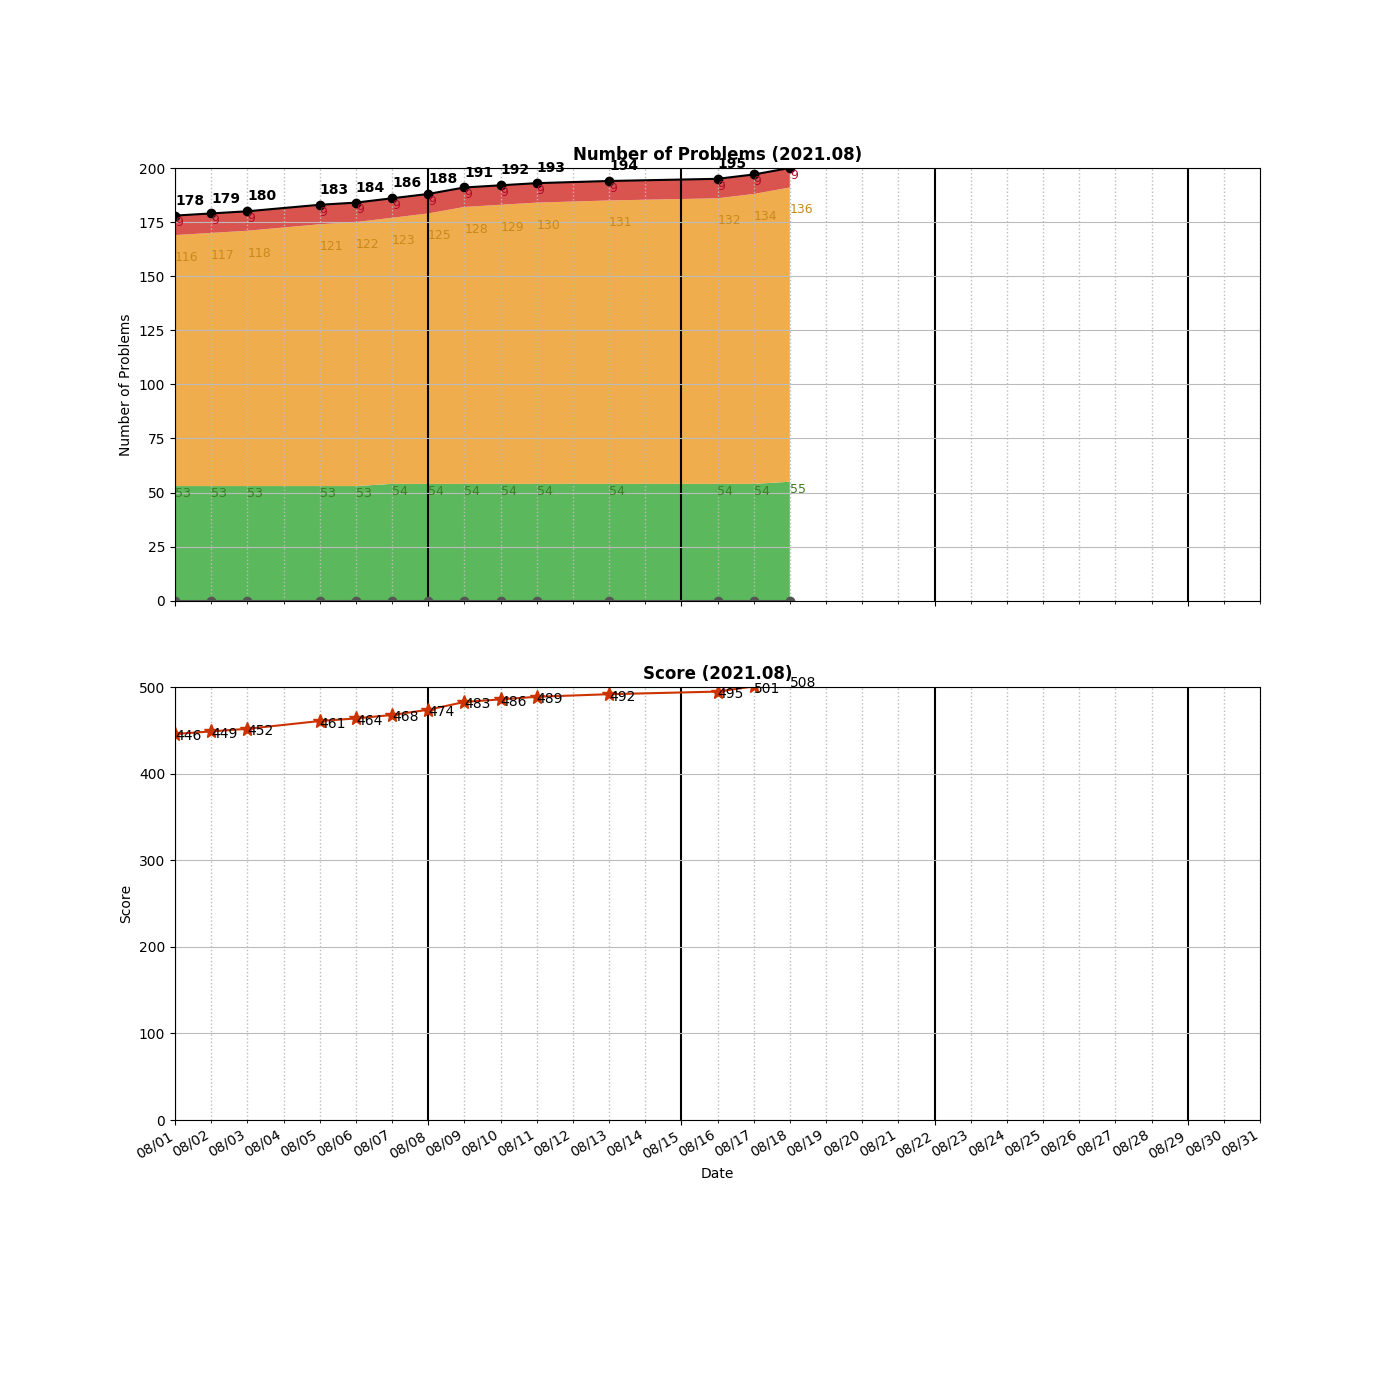
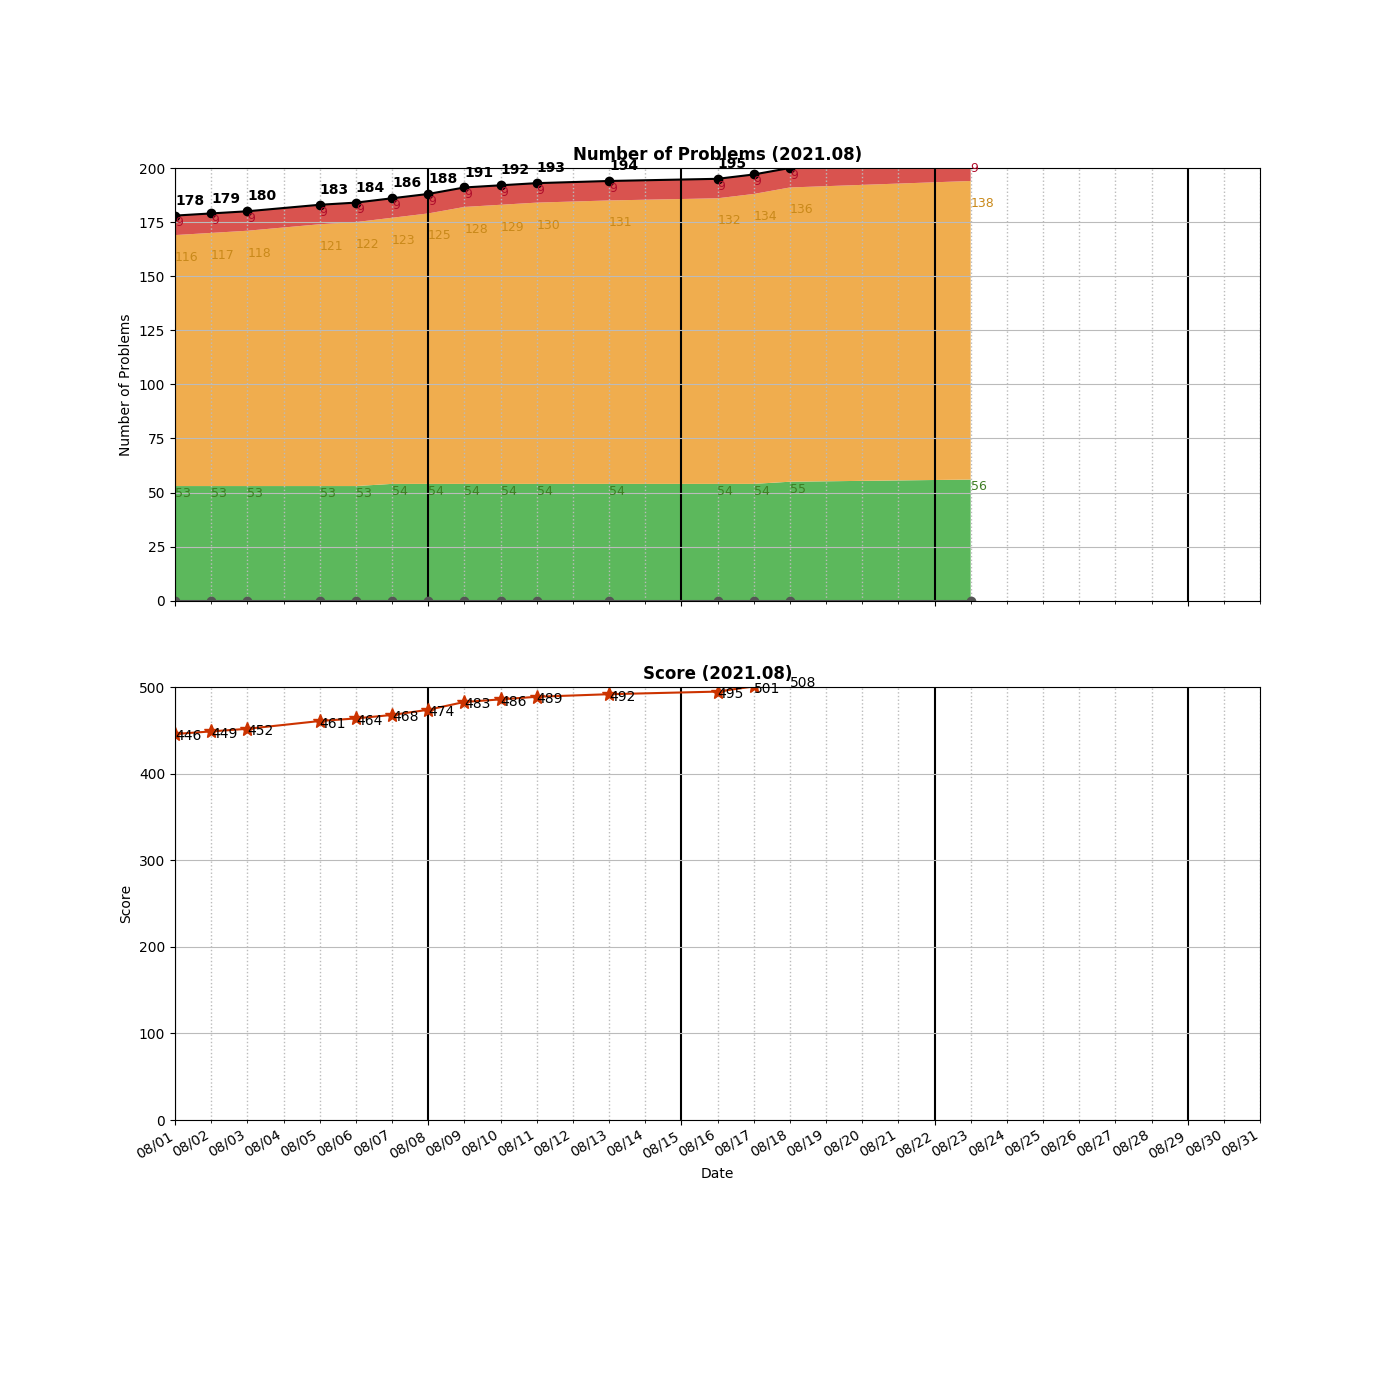
Added __1048__Longest String Chain.py

Changed region(s): [[0.5529, 0.1229, 0.7064, 0.43]]

diff --git a/algo/DP/__1048__Longest String Chain.py b/algo/DP/__1048__Longest String Chain.py
@@ -1,0 +1,32 @@
+# https://leetcode.com/problems/longest-string-chain/
+ 
+class Solution:
+    
+    # Memoization [Time = O(N*L^2) : 12% (list) -> 40% (set)]
+    def longestStrChain(self, words: List[str]) -> int:
+        if not words:
+            return 0
+        
+        self.used = {}
+        self.length = 0 
+        self.words = set(words) 
+        
+        for s in self.words:
+            if s in self.used:
+                continue
+            self.length = max(self.length, self.helper(s))
+        return self.length
+    
+    def helper(self, s):
+        if s not in self.words: #empty s included 
+            return 0
+        if s in self.used:
+            return self.used[s]
+        
+        remaining = -float('inf')
+        for i in range(len(s)):
+            left  = s[:i]    
+            right = s[i+1:] 
+            remaining = max(remaining, 1 + self.helper(left + right)) 
+        self.used[s] = remaining 
+        return self.used[s] 

diff --git a/README.md b/README.md
@@ -92,6 +92,7 @@ algo
 │   ├── __0542__01\ Matrix.py
 │   ├── __0576__Out\ of\ Boundary\ Paths.py
 │   ├── __0935__Knight\ Dialer.py
+│   ├── __1048__Longest\ String\ Chain.py
 │   ├── __1130__Minimum\ Cost\ Tree\ From\ Leaf\ Values.py
 │   ├── __1137__N-th\ Tribonacci\ Number.py
 │   ├── __1143__Longest\ Common\ Subsequence.py
@@ -227,7 +228,7 @@ algo
         ├── LinkedList.cpython-37.pyc
         └── UnrolledLinkedList.cpython-37.pyc
 
-21 directories, 205 files
+21 directories, 206 files
 
 =====================================
 ============= Local Repo ============
@@ -412,6 +413,7 @@ __0922__Sort Array By Parity II.py
 __0935__Knight Dialer.py
 __0969__Pancake Sorting.py
 __0973__K Closest Points to Origin.py
+__1048__Longest String Chain.py
 __1099__Two Sum Less Than K.py
 __1110__Delete Nodes And Return Forest.py
 __1130__Minimum Cost Tree From Leaf Values.py
@@ -429,7 +431,7 @@ __1593__Split a String Into the Max Number of Unique Substrings.py
 __1711__Count Good Meals.py
 __1905__Count Sub Islands.py
 =====================================
-Num of Python Practice:  196
+Num of Python Practice:  197
 
 
 =====================================
@@ -582,6 +584,7 @@ Num of Python Practice:  196
  0515 Find Largest Value in Each Tree Row
  0518 Coin Change 2
  0532 K-diff Pairs in an Array
+ 0535 Encode and Decode TinyURL
  0538 Convert BST to Greater Tree
  0540 Single Element in a Sorted Array
  0542 01 Matrix
@@ -619,6 +622,8 @@ Num of Python Practice:  196
  0969 Pancake Sorting
  0973 K Closest Points to Origin
  0994 Rotting Oranges
+ 1025 Divisor Game
+ 1048 Longest String Chain
  1099 Two Sum Less Than K
  1110 Delete Nodes And Return Forest
  1130 Minimum Cost Tree From Leaf Values
@@ -636,11 +641,11 @@ Num of Python Practice:  196
  1711 Count Good Meals
  1905 Count Sub Islands
 =====================================
-Solved / Total (Easy)  :   55 /  511
-Solved / Total (Medium):  136 / 1042
-Solved / Total (Hard)  :    9 /  419
-Solved / Total (All)   :  200 / 1972
-Total Score            :  508
+Solved / Total (Easy)  :   56 /  514
+Solved / Total (Medium):  138 / 1047
+Solved / Total (Hard)  :    9 /  421
+Solved / Total (All)   :  203 / 1982
+Total Score            :  515
 =====================================
 
 ```
